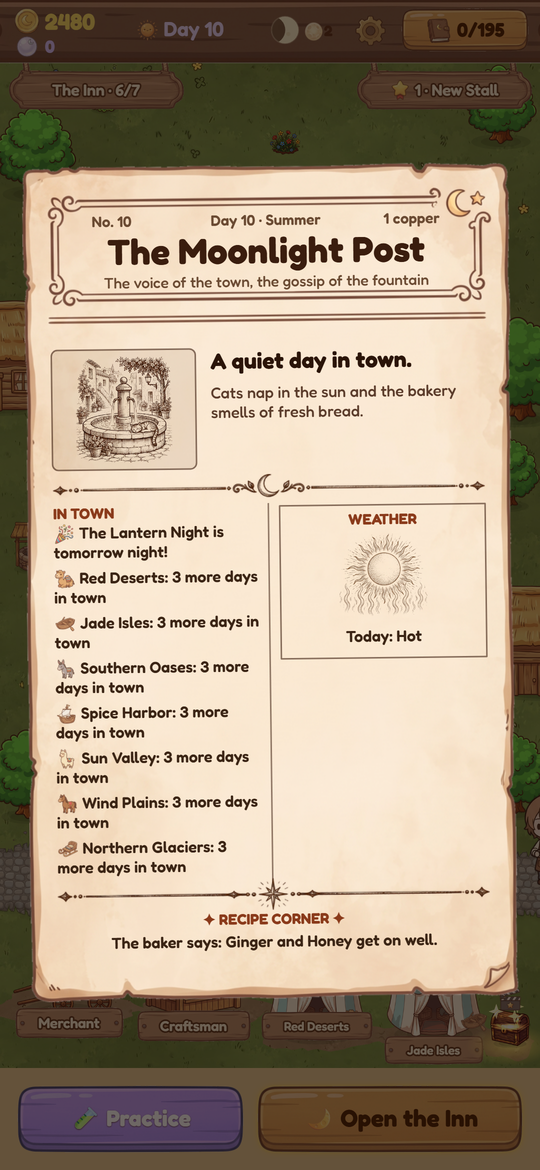
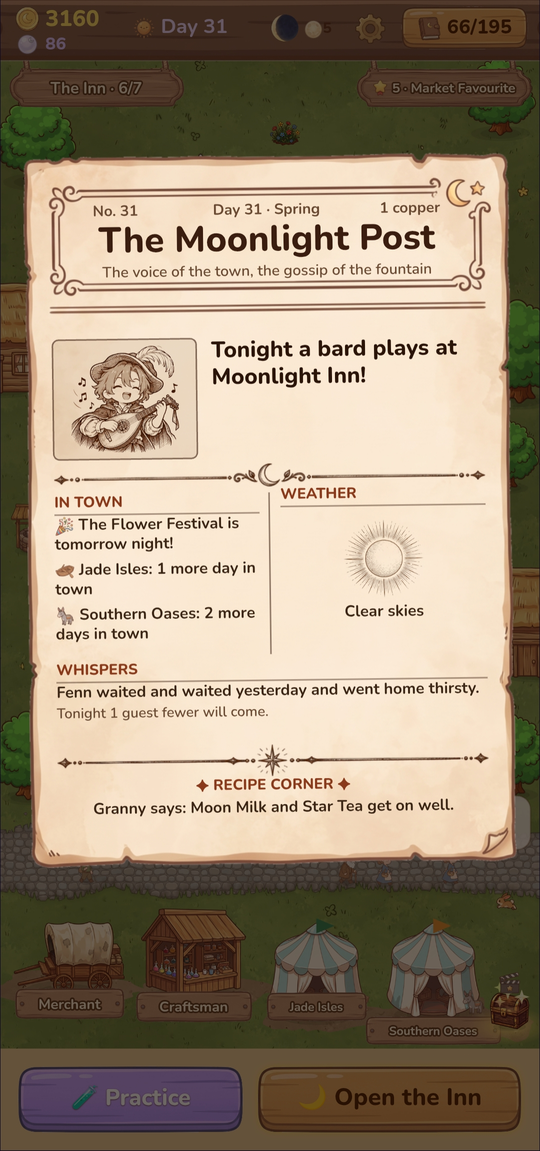
User screenshots

diff --git a/index.html b/index.html
@@ -145,7 +145,7 @@
 
 <script>
   // screenshots (shown only when files exist in the list)
-  var SHOTS = [['shot_guest.webp','Lumi the fairy drops by','Peri Lumi uğradı'],['shot_day_map.webp','Grow your town by day','Gündüz kasabanı büyüt'],['shot_paper.webp','The Moonlight Post every morning','Her sabah Ay Işığı Postası']];
+  var SHOTS = [['shot_yasmin.webp','Travellers bring tales from afar','Gezginler uzaklardan hikâye getirir'],['shot_counter.webp','Pour, mix and serve','Dök, karıştır, servis et'],['shot_nessa.webp','Every guest has a favourite','Her misafirin bir sevdiği var'],['shot_map.webp','Grow your inn by day','Gündüz hanını büyüt'],['shot_paper.webp','The Moonlight Post every morning','Her sabah Ay Işığı Postası']];
   if (SHOTS.length) {
     var box = document.querySelector('.shots');
     SHOTS.forEach(function (s) {
